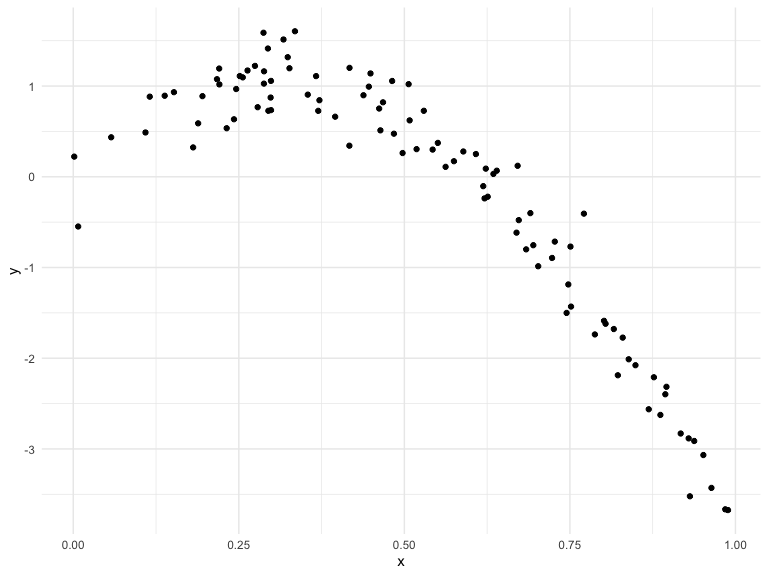
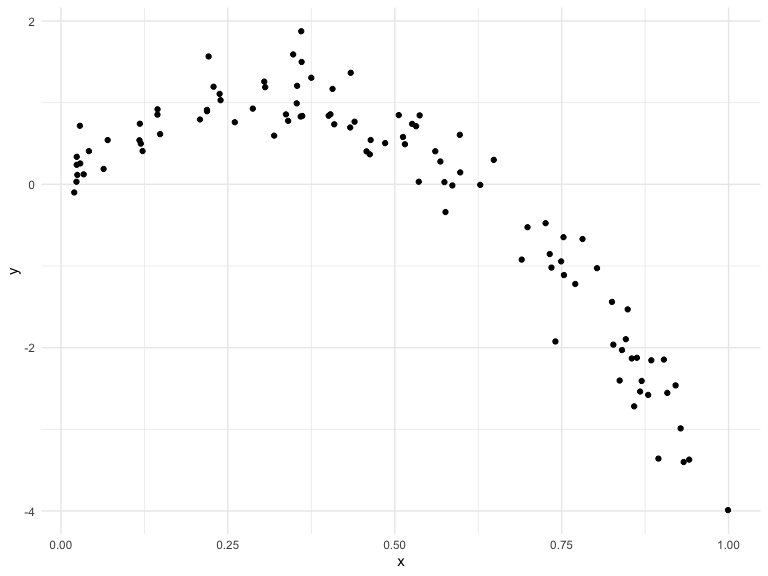
cross validation by hand

diff --git a/cross_validation.md b/cross_validation.md
@@ -47,3 +47,83 @@ nonlin_df %>%
 ```
 
 <img src="cross_validation_files/figure-gfm/unnamed-chunk-2-1.png" width="90%" />
+
+## Cross validation – by hand
+
+get training and testing datasts
+
+``` r
+train_df = sample_n(nonlin_df, size = 80) #%>% arrange(id)
+test_df = anti_join(nonlin_df, train_df, by = "id") #%>% arrange(id)
+```
+
+Fit three models
+
+``` r
+linear_mod = lm(y ~ x, data = train_df)
+smooth_mod = gam(y ~ s(x), data = train_df)
+wiggly_mod = gam(y ~ s(x, k = 30), sp = 10e-6, data = train_df)
+```
+
+``` r
+train_df %>% 
+  add_predictions(linear_mod) %>% #add a column of fitted values
+  ggplot(aes(x = x, y = y)) + 
+  geom_point() + 
+  geom_line(aes(y = pred), color = "red")
+```
+
+<img src="cross_validation_files/figure-gfm/unnamed-chunk-5-1.png" width="90%" />
+
+``` r
+train_df %>% 
+  add_predictions(smooth_mod) %>% #add a column of fitted values
+  ggplot(aes(x = x, y = y)) + 
+  geom_point() + 
+  geom_line(aes(y = pred), color = "red")
+```
+
+<img src="cross_validation_files/figure-gfm/unnamed-chunk-5-2.png" width="90%" />
+
+``` r
+train_df %>% 
+  add_predictions(wiggly_mod) %>% #add a column of fitted values
+  ggplot(aes(x = x, y = y)) + 
+  geom_point() + 
+  geom_line(aes(y = pred), color = "red")
+```
+
+<img src="cross_validation_files/figure-gfm/unnamed-chunk-5-3.png" width="90%" />
+
+add prediction for multiple models
+
+``` r
+train_df %>% 
+  gather_predictions(linear_mod, smooth_mod, wiggly_mod) %>% 
+  ggplot(aes(x = x, y = y)) + 
+  geom_point() + 
+  geom_line(aes(y = pred), color = "red") +
+  facet_grid(.~ model)
+```
+
+<img src="cross_validation_files/figure-gfm/unnamed-chunk-6-1.png" width="90%" />
+
+Look at prediction accuracy
+
+``` r
+rmse(linear_mod, test_df)
+```
+
+    ## [1] 0.7538765
+
+``` r
+rmse(smooth_mod, test_df)
+```
+
+    ## [1] 0.2374576
+
+``` r
+rmse(wiggly_mod, test_df)
+```
+
+    ## [1] 0.2538881
